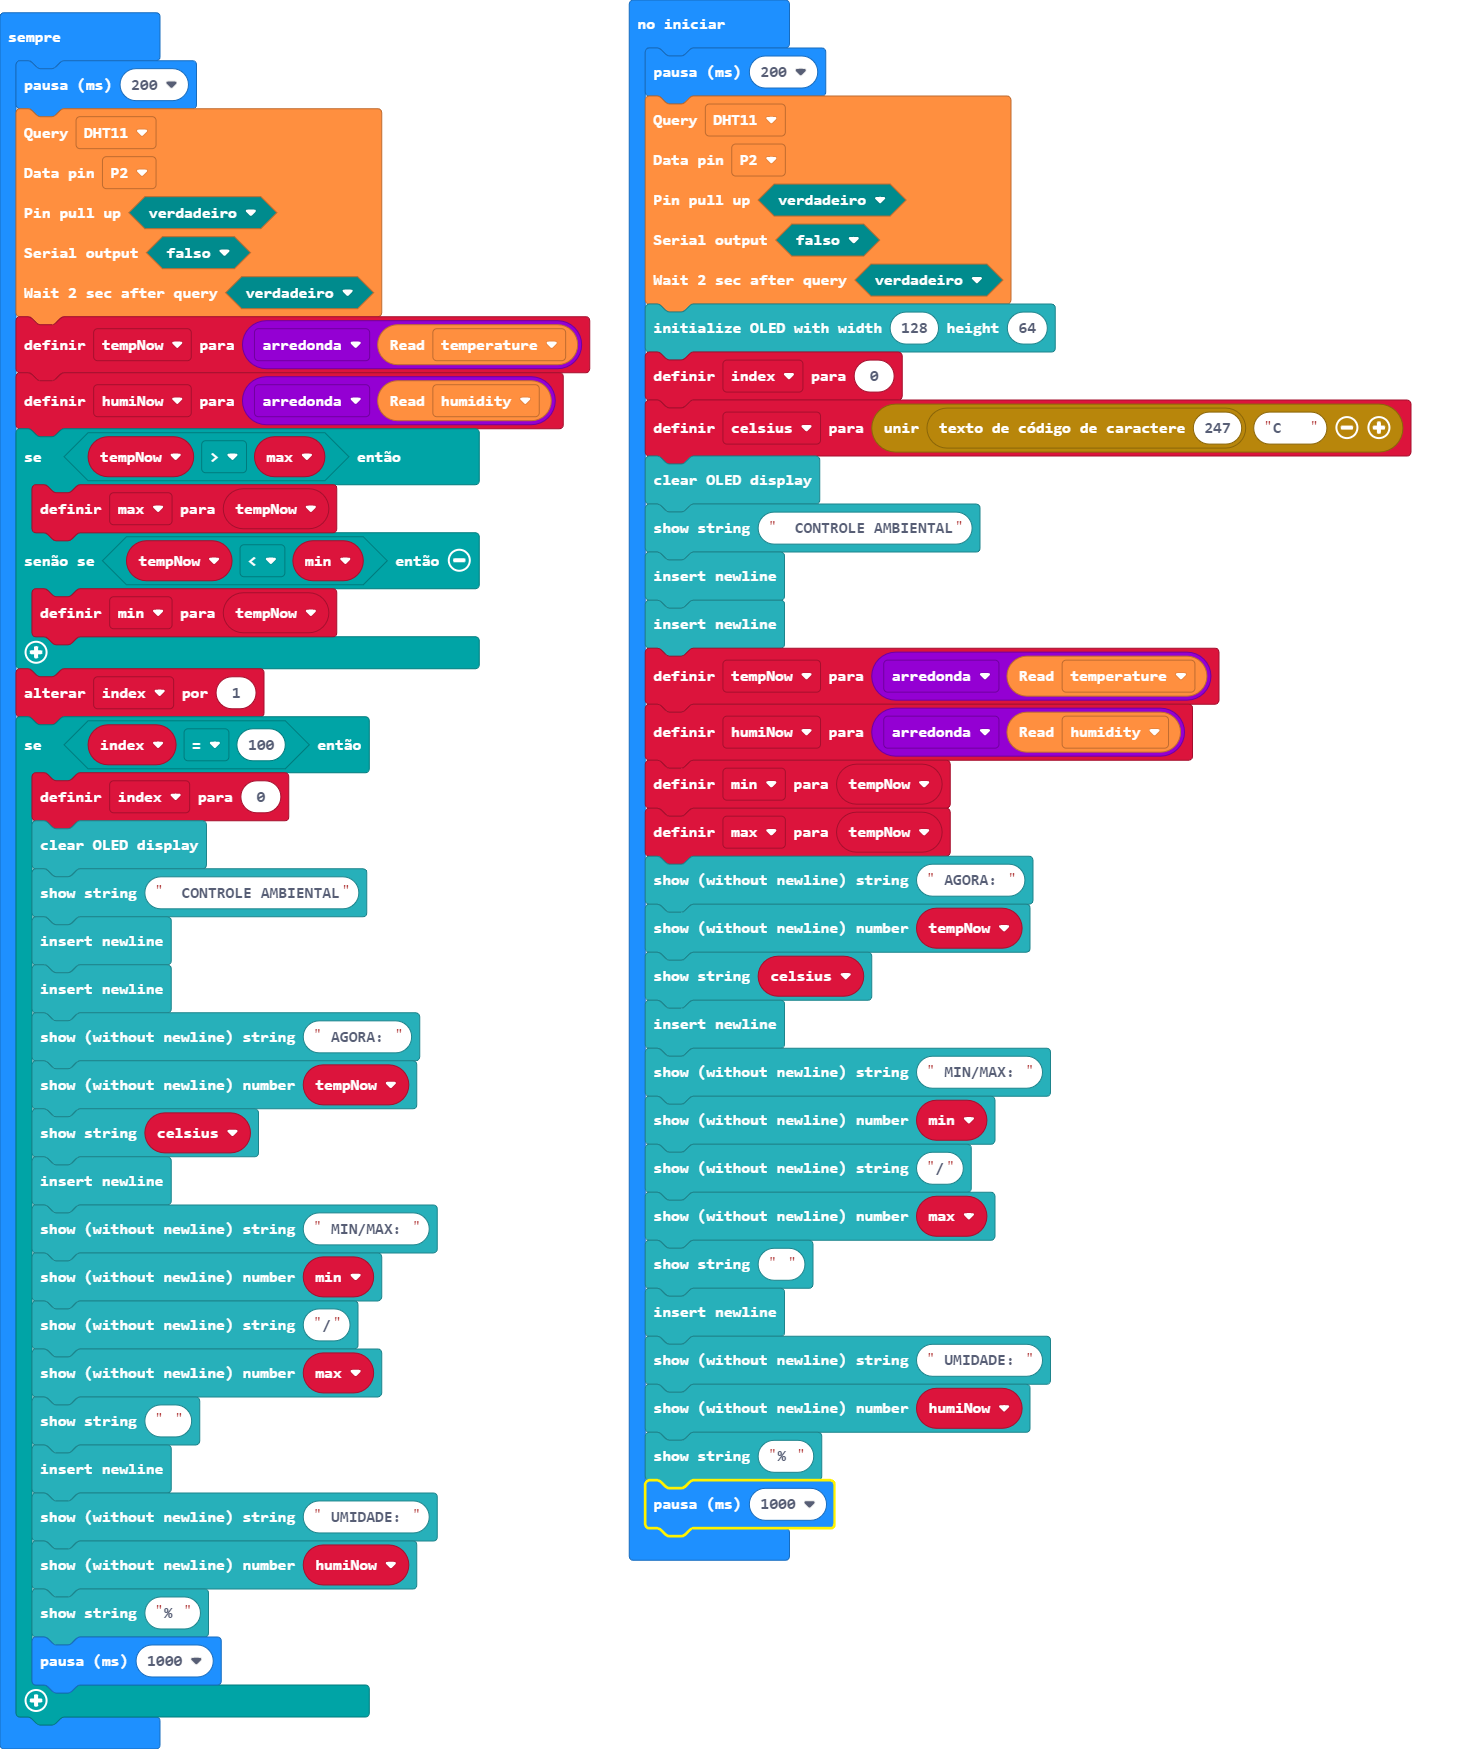
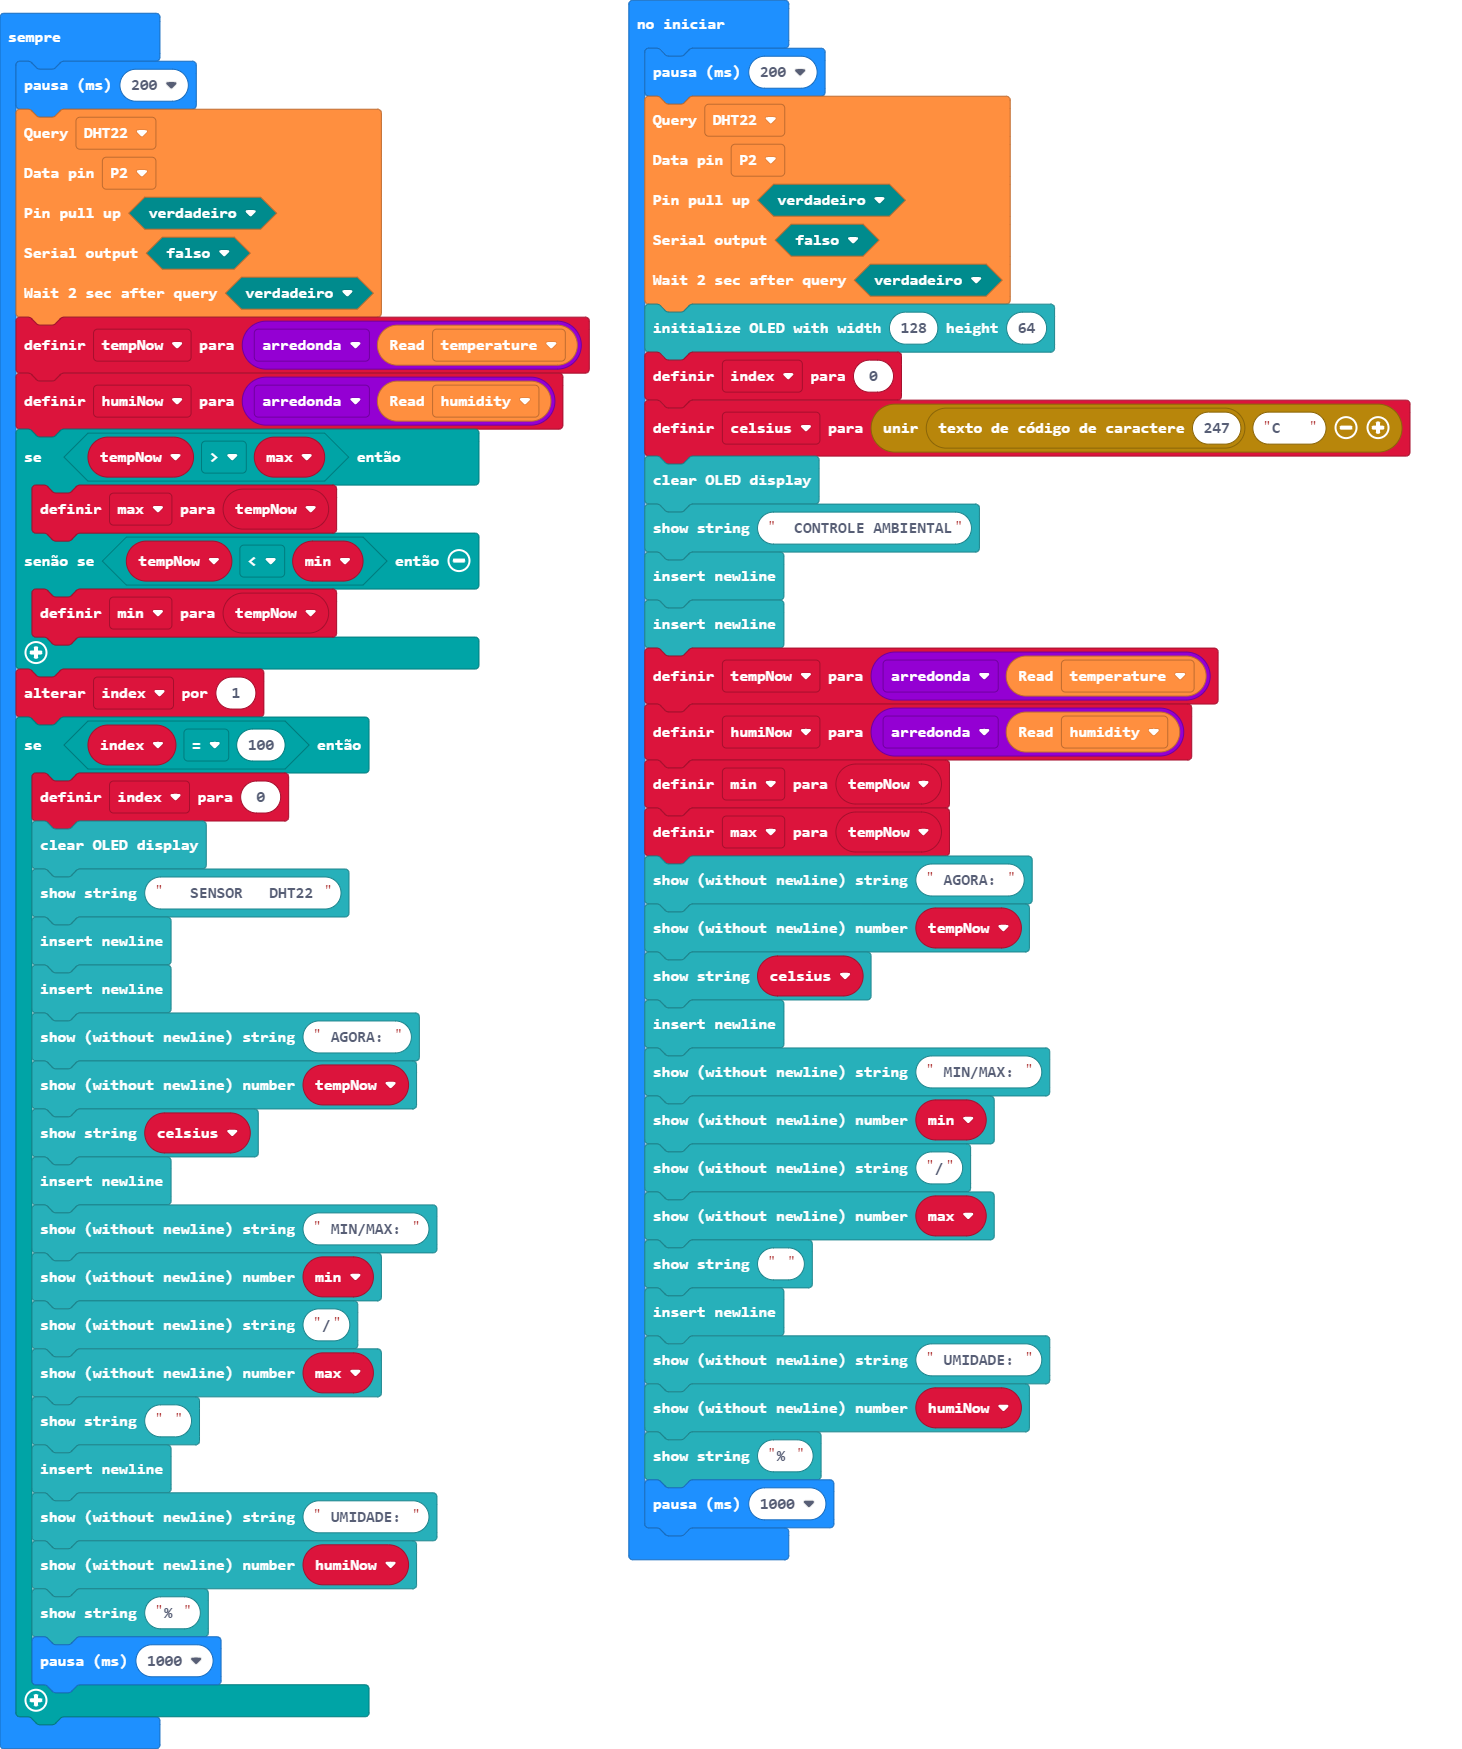
Alterado o sensor para o modelo DHT22

diff --git a/main.ts b/main.ts
@@ -1,6 +1,6 @@
 basic.pause(200)
 dht11_dht22.queryData(
-DHTtype.DHT11,
+DHTtype.DHT22,
 DigitalPin.P2,
 true,
 false,
@@ -34,7 +34,7 @@ basic.pause(1000)
 basic.forever(function () {
     basic.pause(200)
     dht11_dht22.queryData(
-    DHTtype.DHT11,
+    DHTtype.DHT22,
     DigitalPin.P2,
     true,
     false,
@@ -51,7 +51,7 @@ basic.forever(function () {
     if (index == 100) {
         index = 0
         OLED.clear()
-        OLED.writeStringNewLine("  CONTROLE AMBIENTAL")
+        OLED.writeStringNewLine("   SENSOR   DHT22 ")
         OLED.newLine()
         OLED.newLine()
         OLED.writeString(" AGORA: ")
